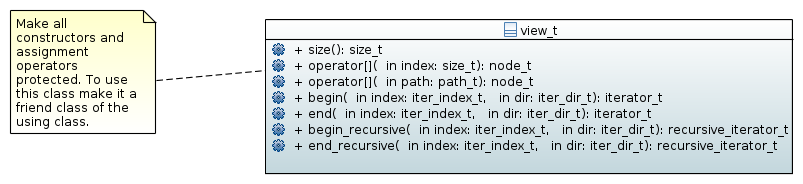
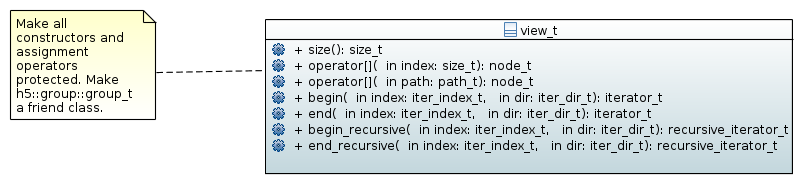
New concept for the view_t classes.

Changed region(s): [[0.0, 0.4891, 0.1868, 0.7337], [0.1868, 0.3804, 0.3425, 0.4348], [0.0934, 0.4076, 0.1557, 0.462]]

diff --git a/design/source/package_overview.rst b/design/source/package_overview.rst
@@ -137,121 +137,117 @@ top-level namespace :cpp:any:`h5` via aliases.
         using group_t     = group::group_t;
     
     } // end of namespace h5
-    
-Iterators
-=========
+   
+.. _containers-views-iterators:
+ 
+Containers, views and iterators
+===============================
 
 One of the general design goals is to provide an interface as close as possible 
 to the STL. This would allow users, for instance, to select objects from 
 an HDF5 tree according to a predefined predicate. 
-Though HDF5 provides iterator/visitor functions for nodes, links, and 
-attributes, the concept behind this functions is quite different from the 
-standard iterator concept in C++. While C++ basically distinguishes between 
-forward and reverse iterators, HDF5 provides far more flexibility.
+From the above description  it follows that we can treat the node types in HDF5
+as STL containers. However, there is a complication. STL containers typically
+store data of a homogeneous type. HDF5 node objects are more complex as they 
+can be viewed as containers whose elements do not only have different types 
+(nodes, attributes, links) but those types also have different semantics. 
+An attribute is obviously something different than an other node or a link. 
 
-HDF5 not only provides the concept of forward and reverse iteration but also 
-allows a *fastest* iteration direction which is determined by the C-API. Thus 
-the concept of forward and reverse iteration does not make sense at all. 
-In addition HDF5 allows the user to select the key by which the sequence 
-of objects is sorted: this can be either done lexicographically by the name
-of an object or by the order in which the child-objects of a parent have been 
-created. *h5++* accounts for this additional degree of freedom by providing
-two utility types :cpp:enum:`iter_index_t` and :cpp:enum:`iter_dir_t` (see 
-:ref:`iterator-utilities` for details).
+Every node object can be considered an attribute container. But a group 
+can be considered as a container of 
+
+* attributes
+* or links
+* or other nodes. 
+
+To provide a coherent STL compliant view on these different types of objects
+views are used on each container. There are currently three view types
+available 
+
+* :cpp:class:`h5::attribute::view_t` - attribute container view, whose elements
+  are of type :cpp:class:`h5::attribute::attribute_t`
+* :cpp:class:`h5::node::view_t` - node container view, whose elements are of 
+  type :cpp:class:`h5::node::node_t`
+* :cpp:class:`h5::link::view_t` - link container view, whose elements are of 
+  type :cpp:class:`h5::link::link_t`.
+
+Each of these views provides an STL compliant container interface to elements
+of the appropriate type. However, due to some peculiarities of the HDF5 library
+there are certain adjustments we have to make the the standard STL interface. 
+
+The first difference with respect to the STL is that HDF5 allows the user 
+to choose between different index types which determine the ordering of the 
+elements in the container. In *h5++* this index type is represented by the 
+enumeration type :cpp:enum:`h5::utilties::iter_index_t`. 
+
+Secondly the user can pick the direction in which the elements are ordered 
+according to the selected index type. This includes not only *increasing* and 
+*reverse* (which would correspond to *forward* and *reverse* iteration in C++),
+but also a third ordering named *fastest* which is automatically picked by 
+the library. The concept of forward and backward iteration thus makes no sense
+in the HDF5 world. 
+
+It is important to note that these two parameters do not only influence the 
+behavior of iterators but all situations where an objects is accessed via 
+a numeric index. Thus :cpp:any:`object[10]` may returns something different
+depending on the index type and the ordering direction. 
 
 Last but not least HDF5 allows for *direct* and *recursive* iteration. In the 
 former case the iterator runs only over the direct children of a parent while
 in the latter case all subgroups are covered too.
 
-Iterators in C++ are instantiated typically by two functions :cpp:func:`begin` 
-and :cpp:func:`end` which come in two flavors:
+In standard C++ a minimal container interface may looks like this
 
-* as member functions of a container class
+.. code-block:: cpp
 
-    .. code-block:: cpp
+    class container
+    {
+        public:
+            using value_type = ....;
+            using iterator = ...;
+            
+            size_t size() const; 
+            value_type operator[](size_t index) const; 
+            
+            iterator begin();
+            iterator end(); 
+    };
     
-        class container
-        {
-            public:
-                using iterator = ...;
-                
-                iterator begin();
-                iterator end(); 
-        };
-        
-* or as free standing functions
+For our :cpp:class:`view_t` classes we used a slightly different interface
+accounting for the special behavior of HDF5.
 
-    .. code-block:: cpp
+.. code-block:: cpp
+
+    class view_concept_t
+    {
+        public:
+            using value_type = ...;
+            using iterator   = ...;
+            using recursive_iterator = ....;
+            
+            //get the current index type
+            iter_index_t index() const;
+            //set the index
+            void index(iter_index_t idx);
+            
+            //get the current order direction
+            iter_dir_t dir() const;
+            //set the current order
+            void dir(iter_dir_t dir);
+            
+            size_t size() const;
+            value_type operator[](size_t index) const; 
     
-        class container 
-        {
-            .....
-        };
+            //iterate only over the direct children        
+            iterator begin();
+            iterator end();
+           
+            //recursive iteration 
+            recursive_iterator begin_recursive();
+            recursive_iterator end_recursive();
+    };
         
-        container::iterator begin(container &c);
-        container::iterator end(container &c);
-        
-For HDF5 these functions need some extensions concerning their argument list
-as they must take the additional degrees of freedom into account. In addition 
-we have to distinguish between recursive and direct iteration
-
-* for the member functions we get now  
-
-    .. code-block:: cpp
-    
-        class container
-        {
-            public:
-                // iterator for direct iteration
-                using iterator = ...;
-                // iterator for recursive iteration
-                using recursive_iterator = ...
-                
-                iterator begin(iter_index_t index,
-                               iter_dir_t dir);
-                iterator end(iter_index_t index,
-                             iter_dir_t dir); 
-                recursive_iterator begin_recursive(iter_index_t index,
-                                         iter_dir_t dir);
-                recursive_iterator end_recursive(iter_index_t index,
-                                                 iter_dir_t dir);
-                          
-        };
-        
-* and the signatures of the free standing functions would alter to 
-
-    .. code-block:: cpp
-    
-        class container 
-        {
-            .....
-        };
-        
-        container::iterator begin(container &c,
-                                  iter_index_t index,
-                                  iter_dir_t dir);
-        container::iterator end(container &c,
-                                iter_index_t index,
-                                iter_dir_t dir);
-        container::recursive_iterator begin_recursive(container &c,
-                                                      iter_index_t index,
-                                                      iter_dir_t dir);
-        container::recursive_iterator end_recursive(container &c,
-                                                    iter_index_t index,
-                                                    iter_dir_t dir);        
- 
-We can mabye omit the :cpp:func:`begin_recursive` and 
-:cpp:func:`end_recursive` by adding a tag-type to the signature of 
-:cpp:func:`begin` and :cpp:func:`end` to distinguish between direct and 
-recursive iteration. However, in any case, this additional information must 
-be conveyed in some or the other way.
-
-As a matter for fact this is not a real complication for most of the STL 
-algorithms which required the *begin* and *end* iterator to be passed 
-explicitly. However, this is a problem for range based algorithms and 
-statements like the *range-for* loop. 
-
 .. note::
-
-    There is currently no good solution for this as long as we want to keep 
-    the flexiblity of the HDF5 iterators.
+    
+    Need to find a solution for range-based algorithms end statements like 
+    the range-for loop.
